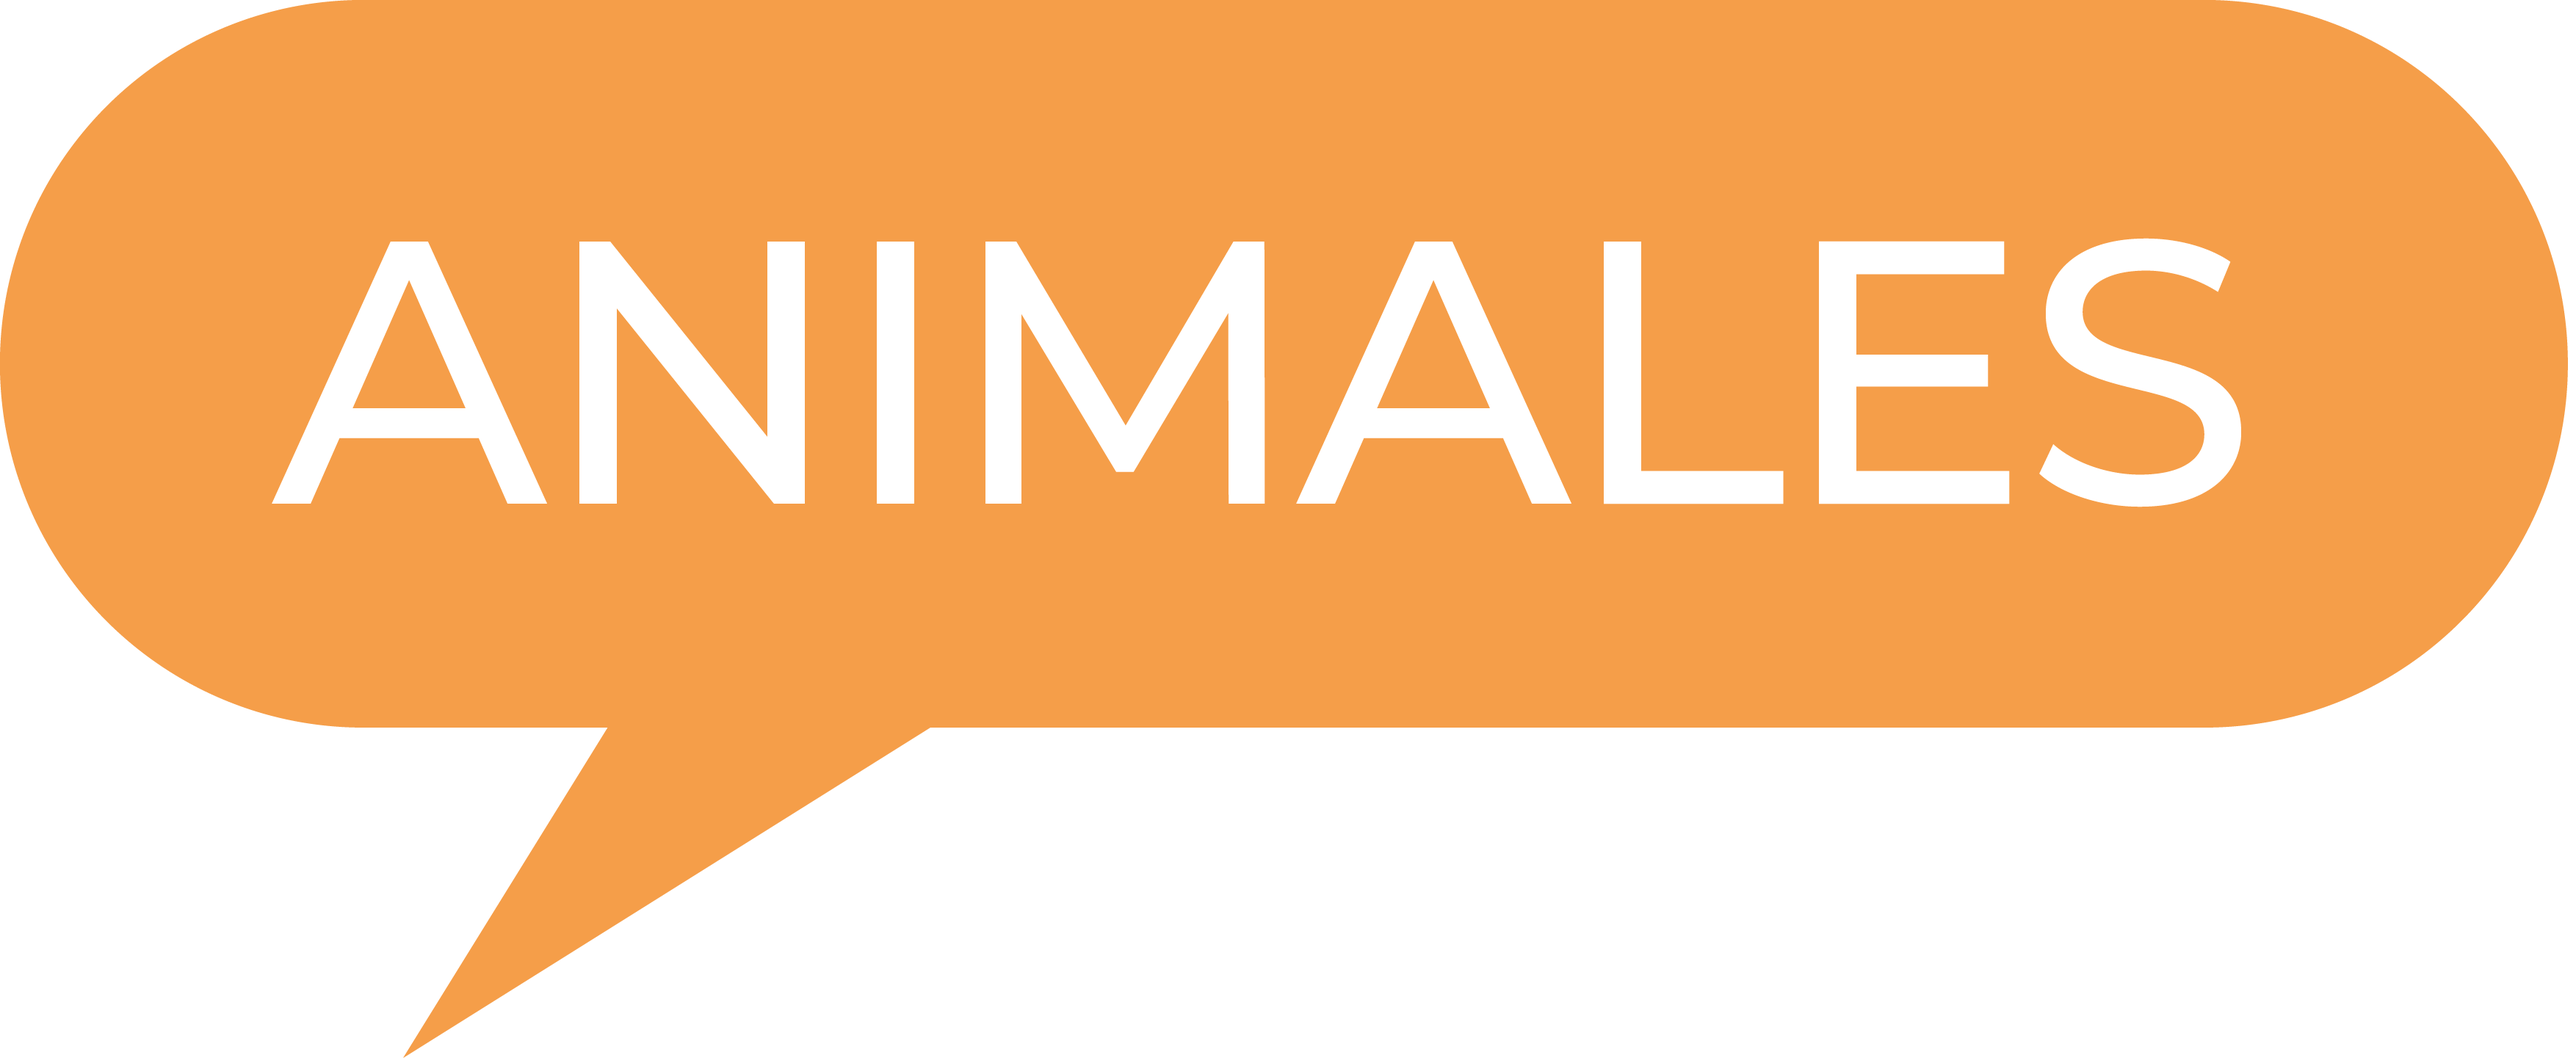
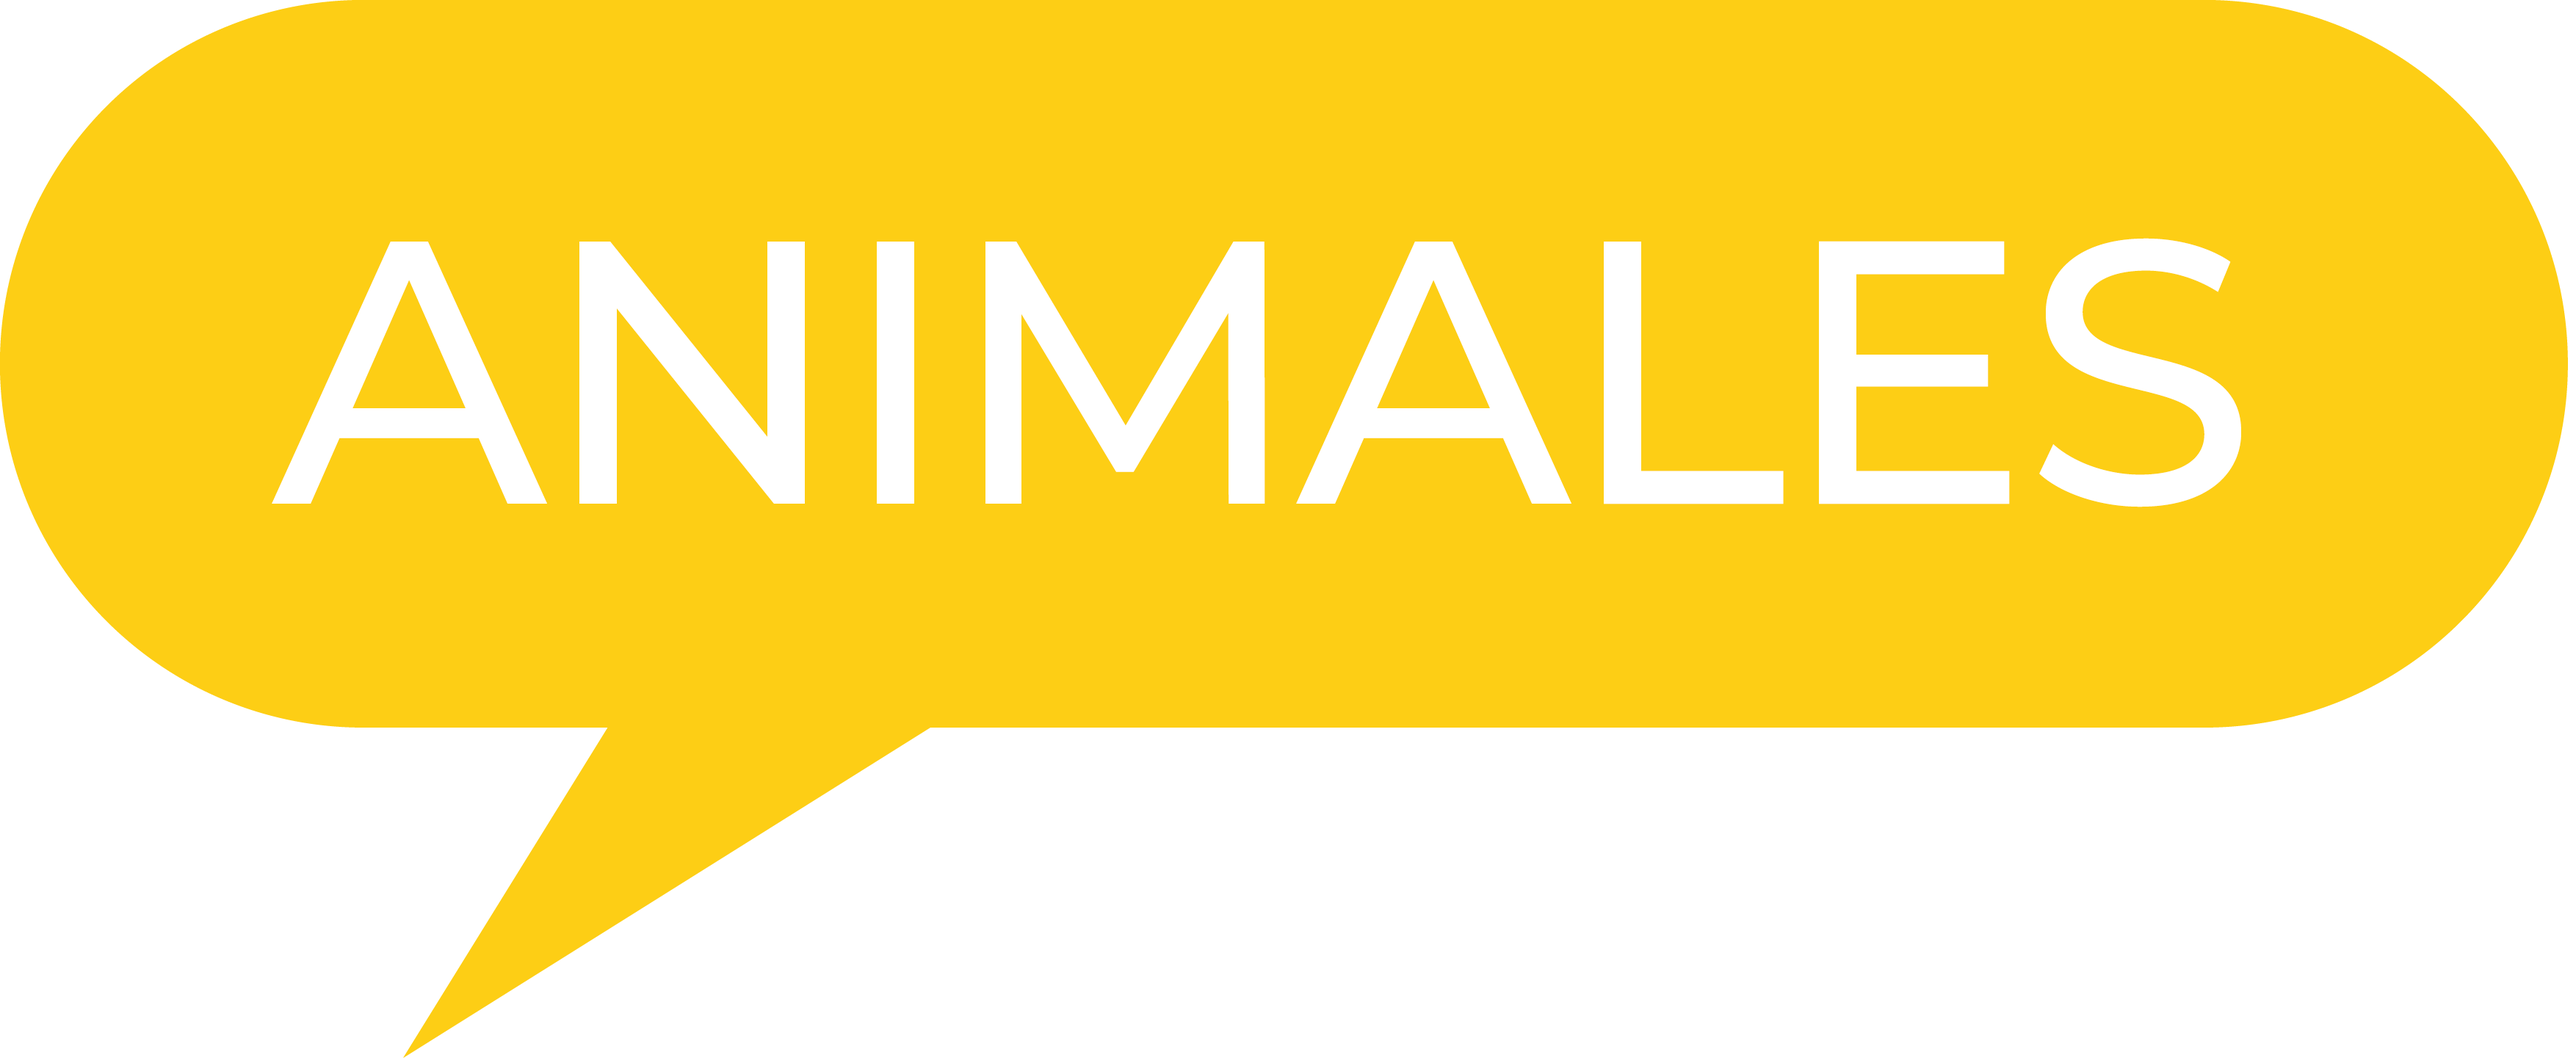
cambio de colores (prueba)

diff --git a/css/index.css b/css/index.css
@@ -118,7 +118,7 @@ header {
     padding-left: 2rem;
     line-height: 4rem;
     text-align: left;
-    color: #2b4e9d;
+    color: #7ac6be;
 }
 
 .texto {
@@ -129,7 +129,7 @@ header {
 .animales {
     max-width: 35rem;
     position: relative;
-    top: 4px;
+    top: 5px;
     z-index: 1;
 }
 
@@ -138,7 +138,7 @@ header {
     font-family: "Anton", sans-serif;
     font-size: 5rem;
     text-align: center;           
-    background-color: #2b4e9d;       
+    background-color: #7ac6be;       
     color: white;
     line-height: 5rem;
     z-index: 2;
@@ -149,7 +149,7 @@ header {
     font-style: normal;
     font-size: 1rem;
     padding: 2rem;
-    background-color: #2b4e9d;       
+    background-color: #7ac6be;       
     color: white;
 
 }
@@ -161,7 +161,8 @@ header {
 }
 
 .adopta img {
-    max-width: 300px;
+    max-width: 400px;
+    padding: 2rem;
  }
 
 .adopta img:hover {
@@ -242,7 +243,7 @@ header {
     }
 
     .nav-list :hover{
-        color: orange;
+        color: #fece02;
     }
 
     .nav-adopcion2{

diff --git a/index-c.r.html b/index-c.r.html
@@ -70,15 +70,7 @@
     para disminuir este problema.</p>
 </section>
 
-<section class="texto">
-    <p >Con esta web, las personas dueñas de mascotas 
-    que ya no puedan hacerse cargo de ellas ya sea por tiempo, 
-    por cambios en su vida personal o por incapacidad, les facilitamos 
-    la plataforma para exponer fotografías de sus peluditos y así ayudarles 
-    a buscar una nueva familia que les de el amor que se merecen de nuevo.</p>
-</section>
-
-    <section class="adopta">
+ <section class="adopta">
     <img src="imagenes/adopta.png" alt="adopta">
     </section>
 
@@ -113,7 +105,6 @@
         </div>
     </div>
 </section>
-
 
 </body>
 </html>
